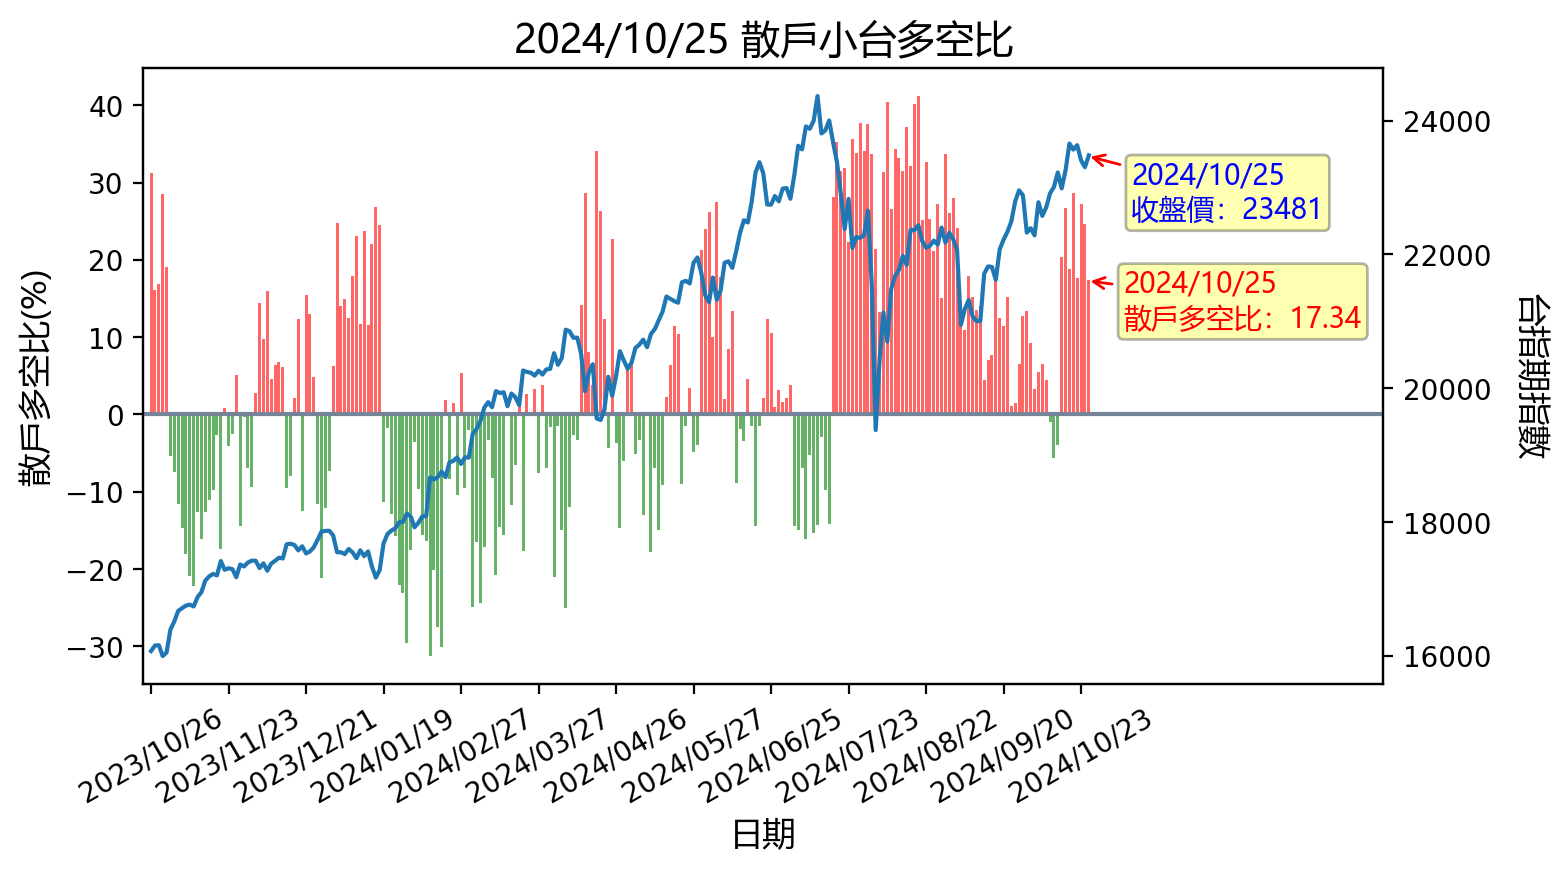
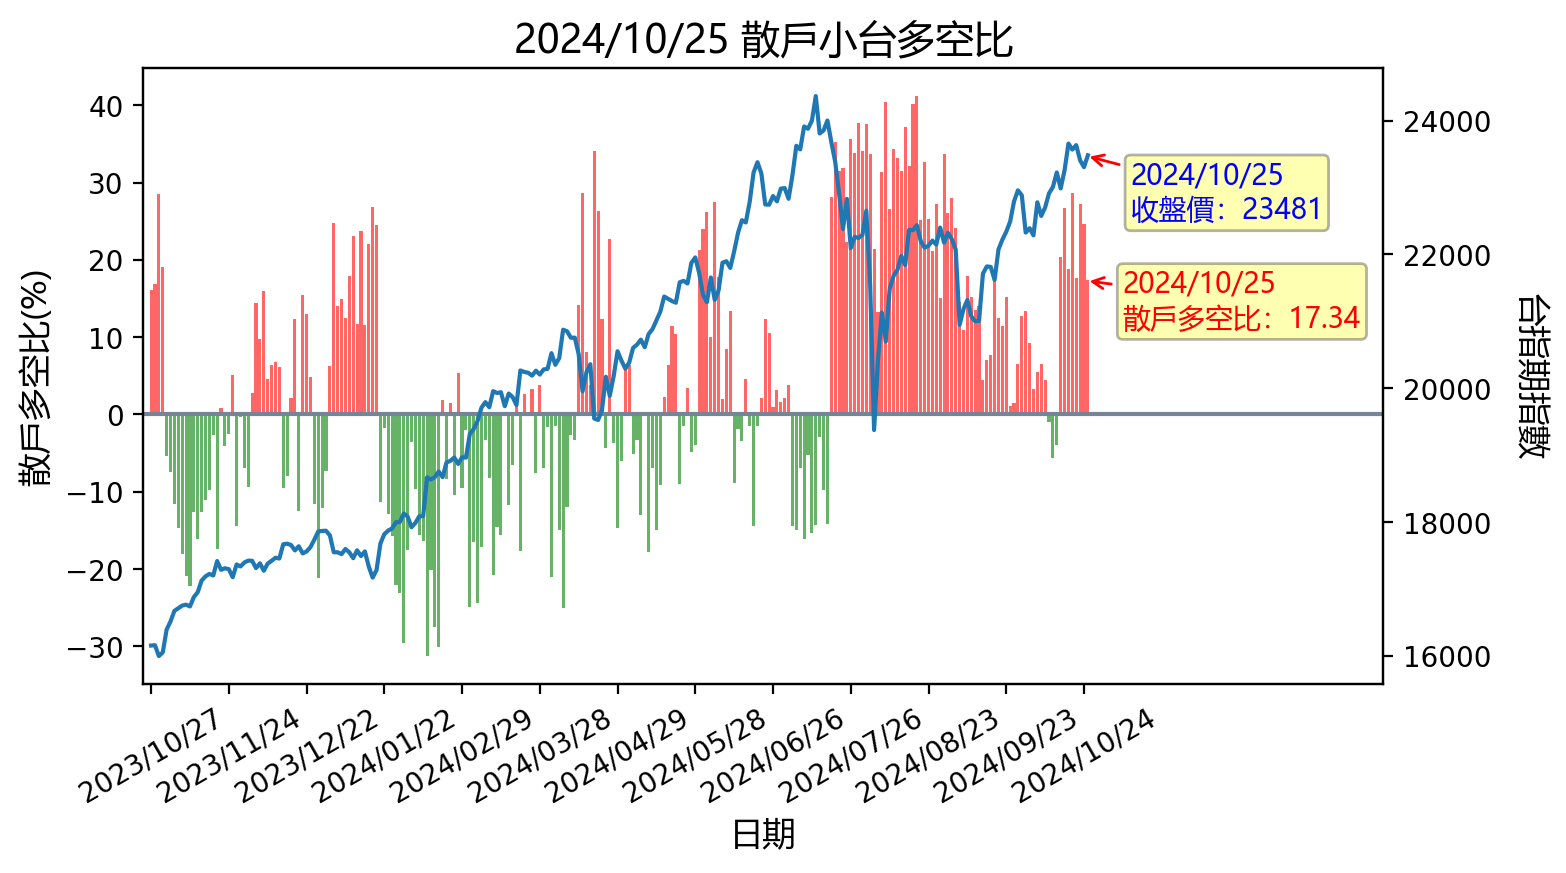
更新時間: Sun Oct 27 16:35:25 CST 2024

diff --git a/README.md b/README.md
@@ -1,12 +1,12 @@
-## 20241026 台指期「預估換倉成本」
+## 20241027 台指期「預估換倉成本」
 ![](images/txfcost.png)
 
-## 20241026 台指期「散戶小台多空比」
+## 20241027 台指期「散戶小台多空比」
 ![](images/bbiri.png)
 
-## 20241026 台指選擇權「Put/Call Ratios」
+## 20241027 台指選擇權「Put/Call Ratios」
 ![](images/pcratio.png)
 
-## 20241026 台指期「大額交易人」
+## 20241027 台指期「大額交易人」
 ![](images/blocktrade.png)
 
